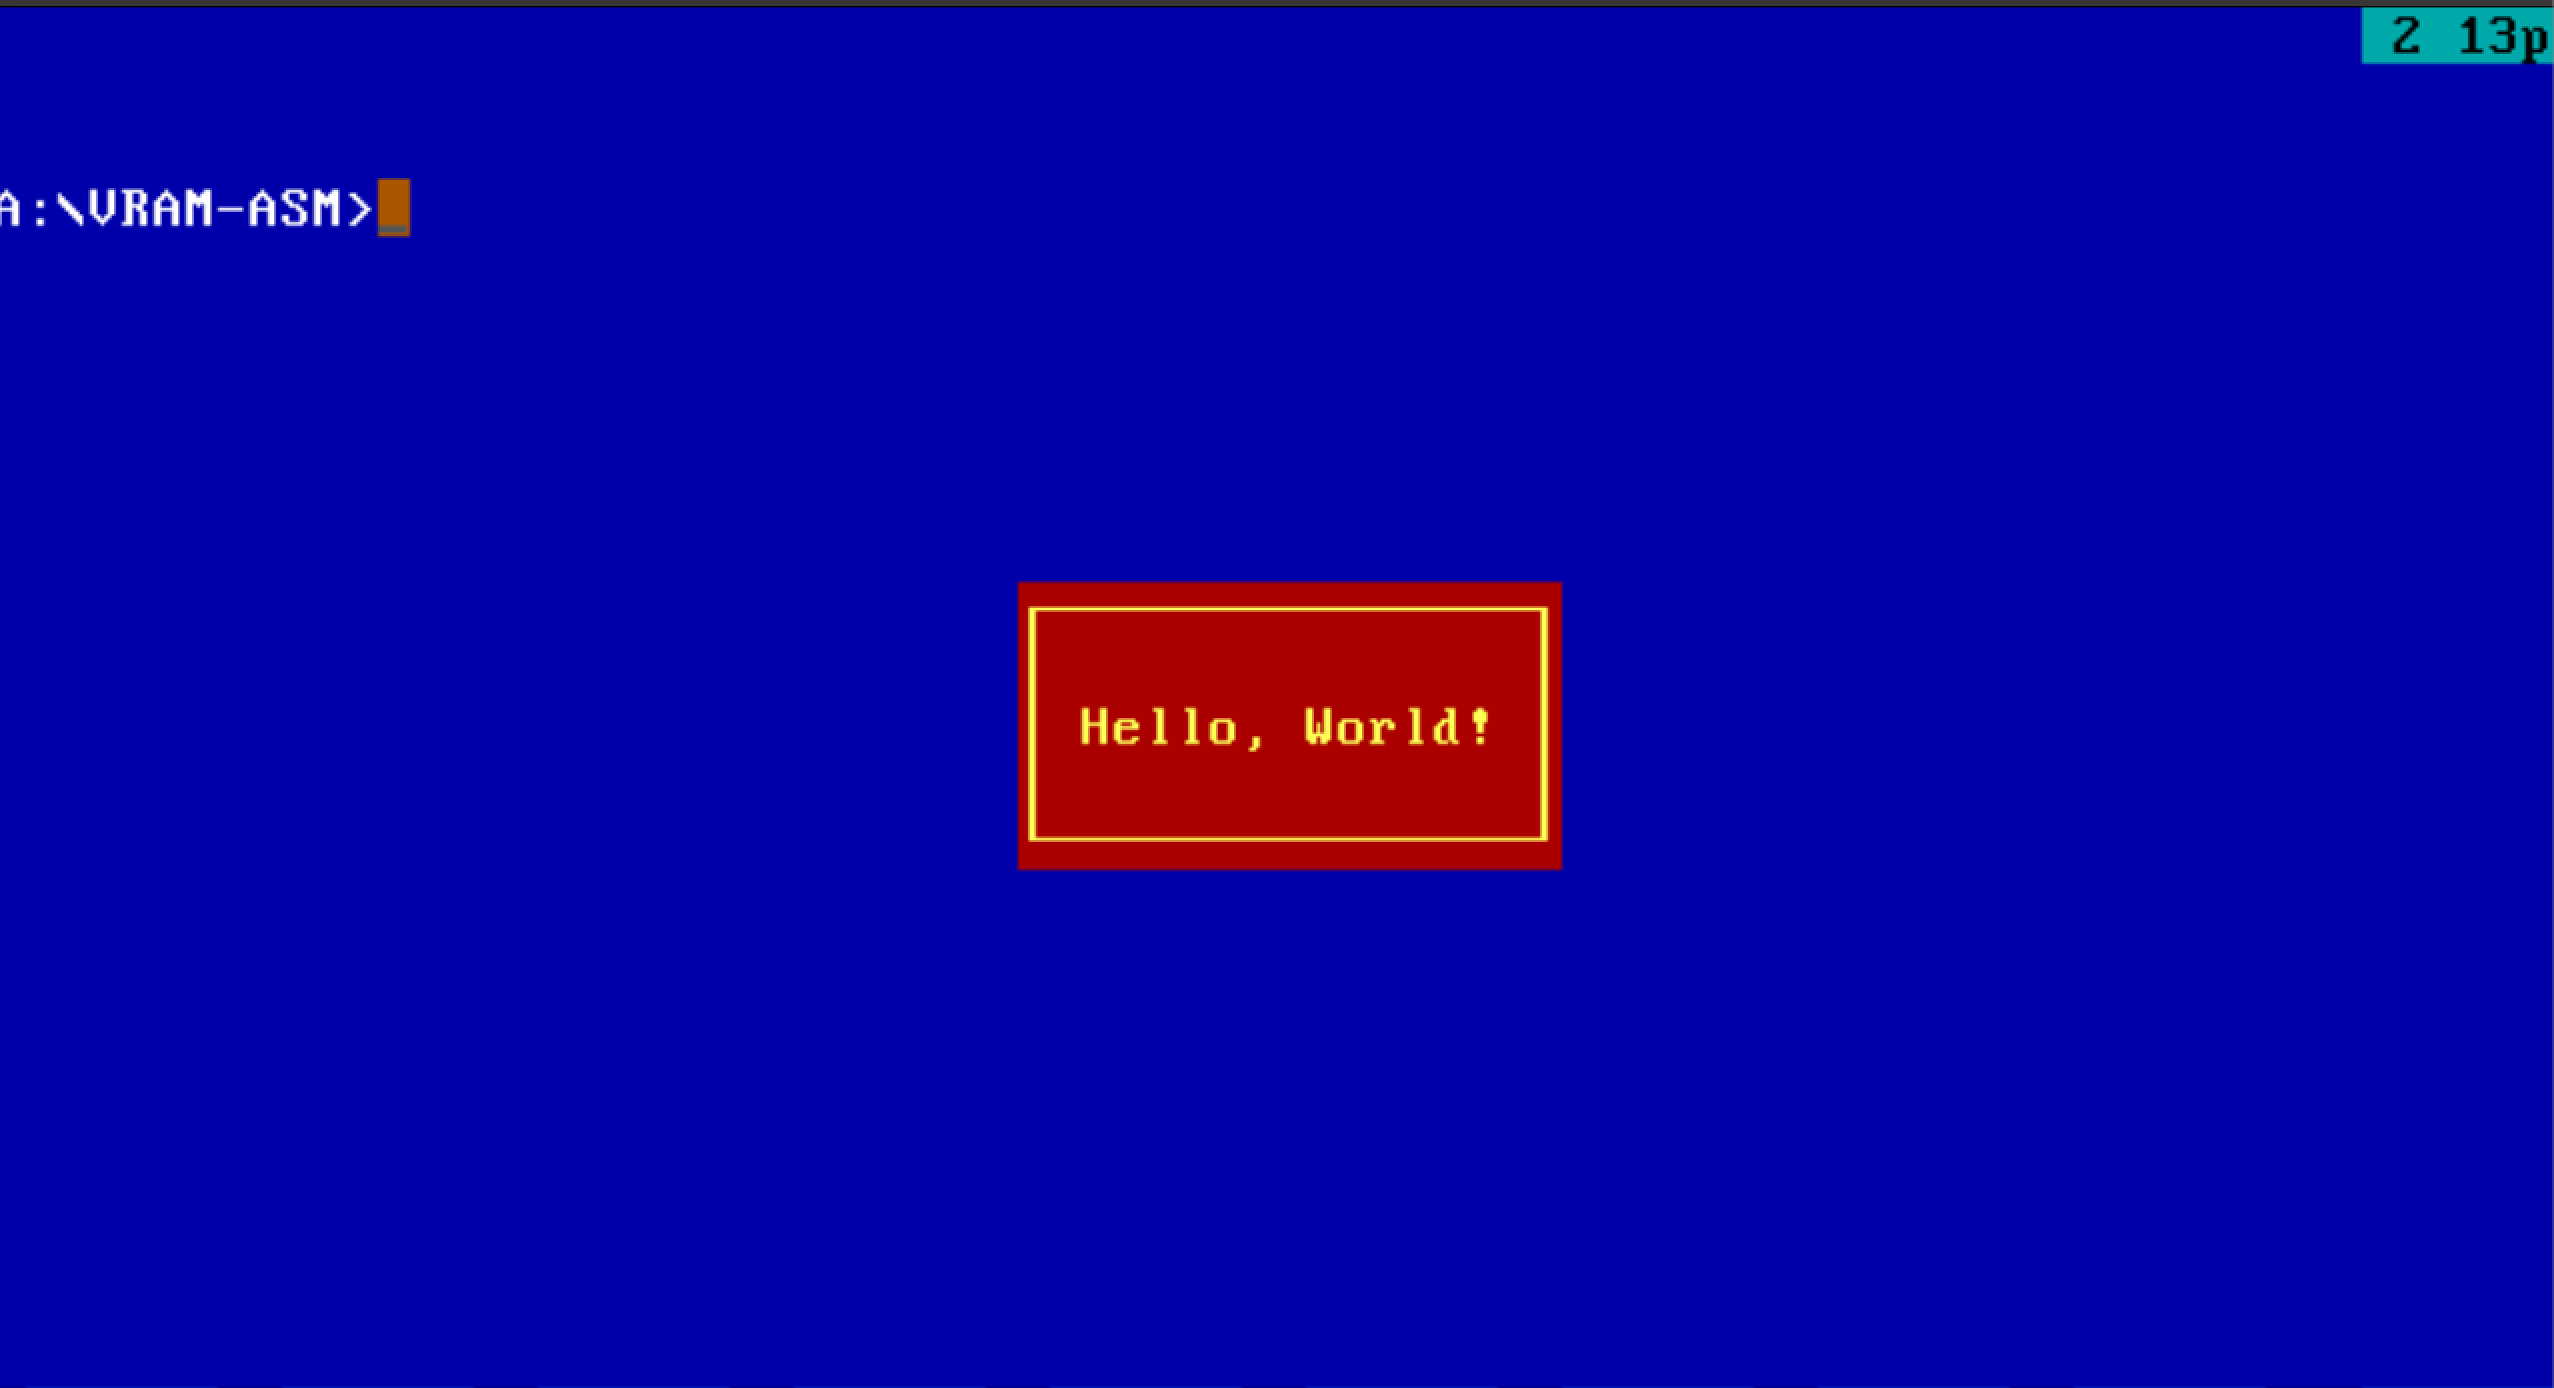
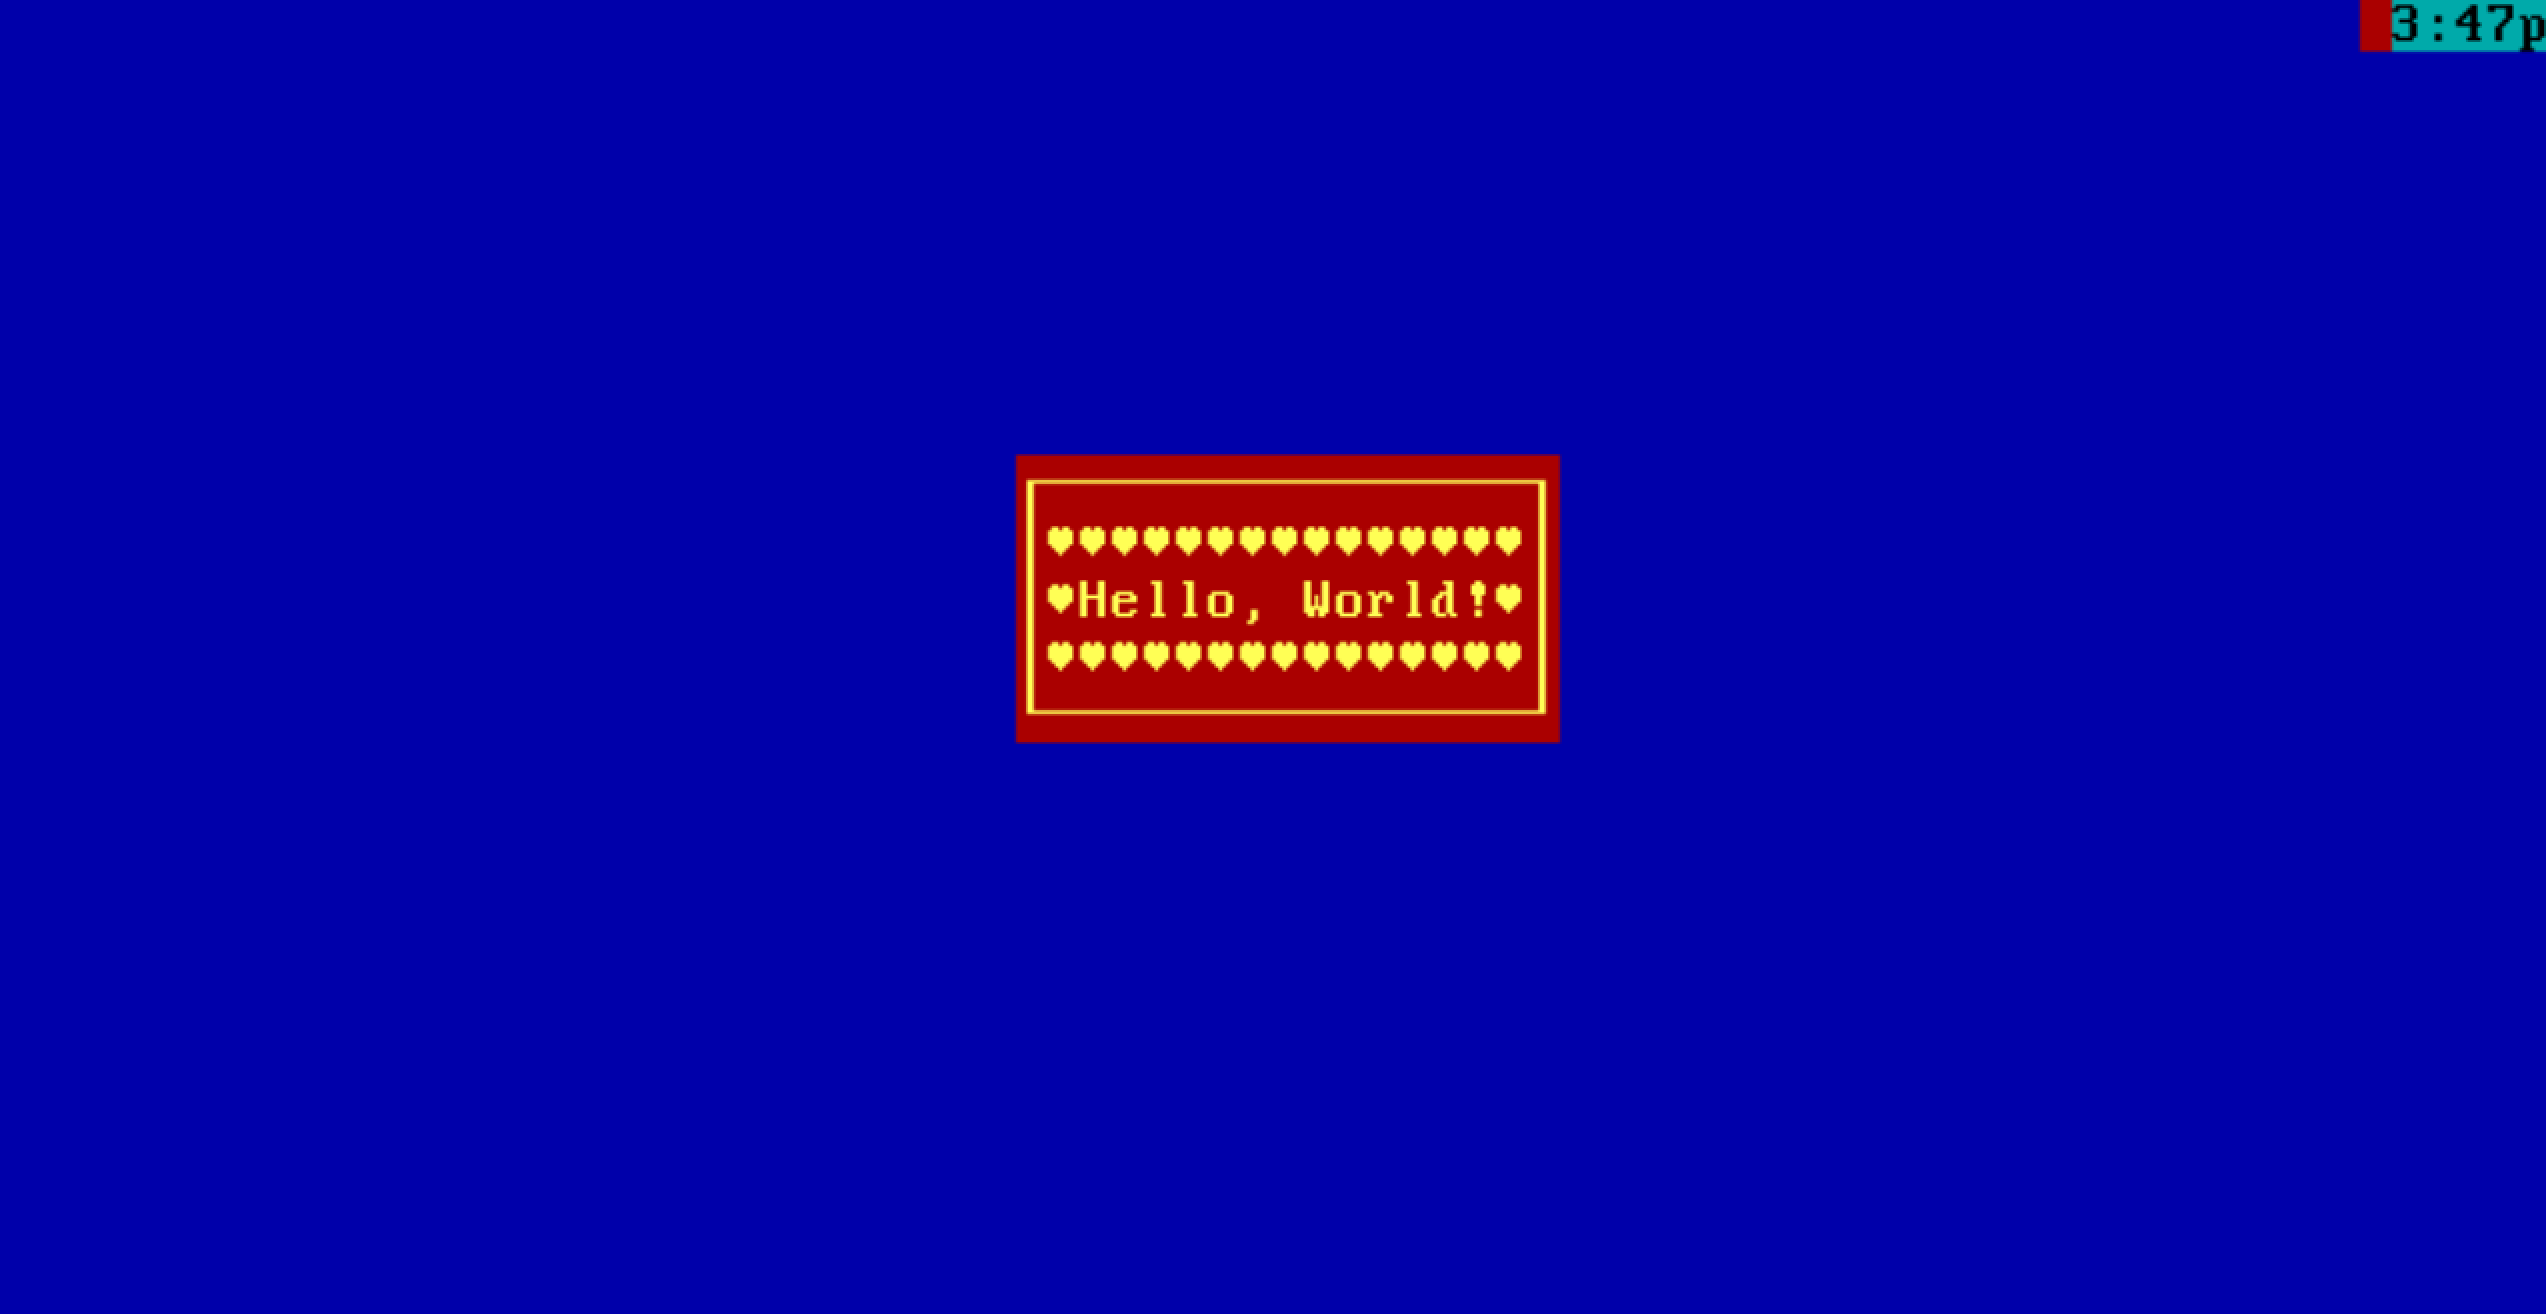
Add changable frame symbols

Changed region(s): [[0.3723, 0.3432, 0.6206, 0.6553], [0.0, 0.0, 1.0, 1.0], [0.0, 0.1248, 0.1862, 0.1872]]

diff --git a/README.MD b/README.MD
@@ -2,19 +2,24 @@
 
 This repository was created to study assembly in DOS
 
-| Name | Path | Description |
-| ---- | ---- | ----------- |
-| vram-asm | [vram-asm](./vram-asm/) | Работа с видеопамятью |
+|      Имя       |       Расположение      |        Описание         |
+| -------------- | ----------------------- | ----------------------- |
+| Framed message | [vram-asm](./vram-asm/) | Вывод сообщение в рамке |
 
 ## Examples of work
 
 ### String in frame
 
+Usage: file.com [BG] [TXT] [Fill] [Flag] [7Chars if Flag=1] [Message]
+
 ![Example 1](img/example1.png)
 *Пример 1. Вызов программы без передачи параметров: ```file.com```*
 
 ![Example 2](img/example2.png)
-*Пример 2. Запуск с параметрами: ```file.com 1F 4E ♥ Hello, World!```*
+*Пример 2. Запуск с параметрами: ```file.com 1F 4E ♥ 0 Hello, World!```*
 
 ![Example 3](img/example3.png)
-*Пример 3. Запуск с параметрами: ```file.com 1D 3F . MEOW```*
+*Пример 3. Запуск с параметрами: ```file.com 1D 3F . 0 MEOW```*
+
+![Example 4](img/example4.png)
+*Пример 3. Запуск с параметрами: ```file.com 1F 0F . 1 #I#-#I# Hello, World!```*
